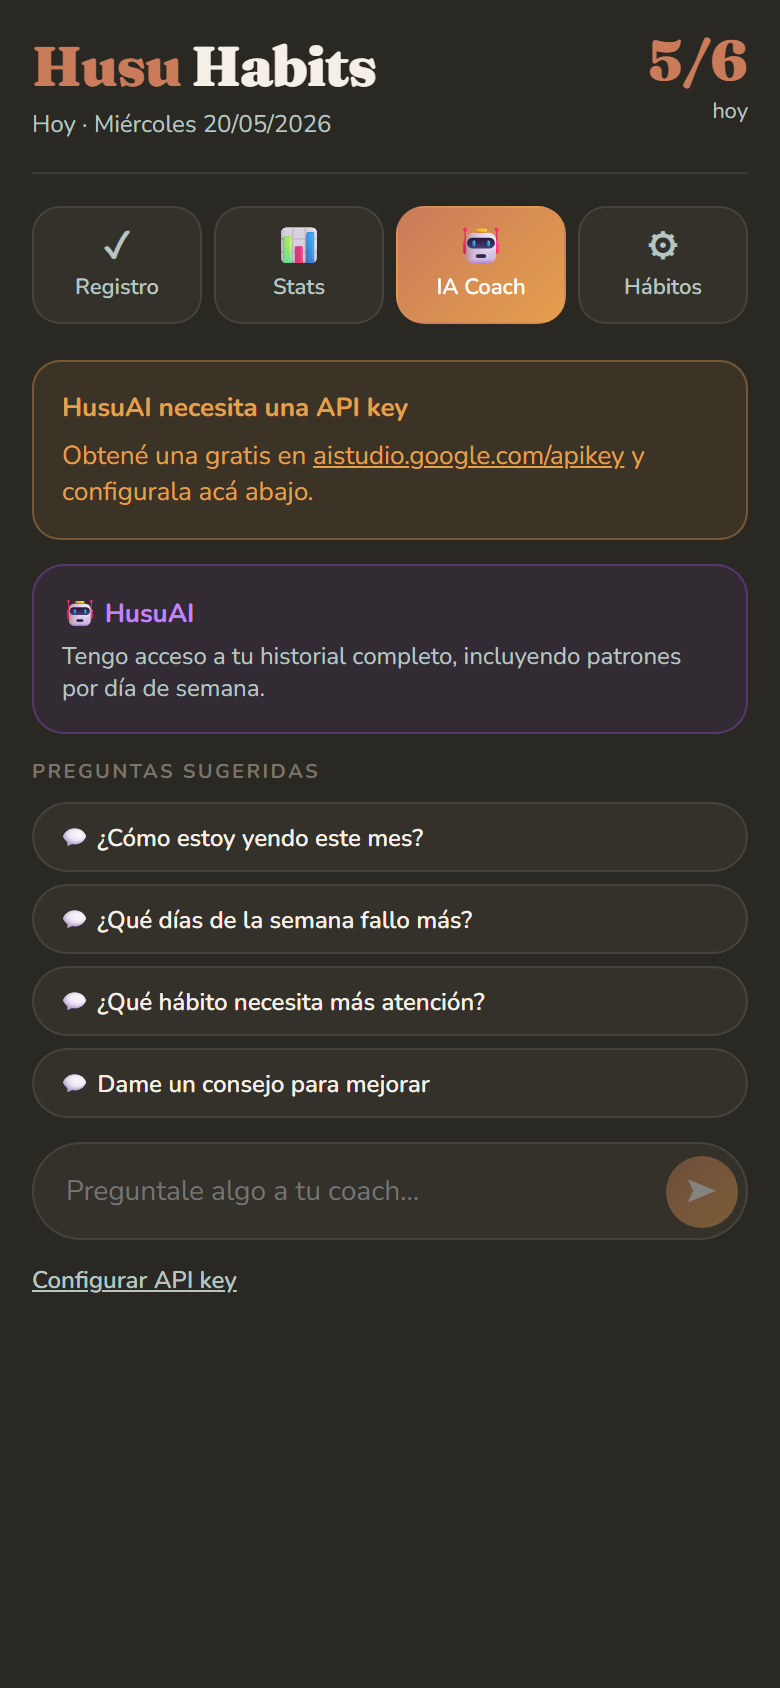
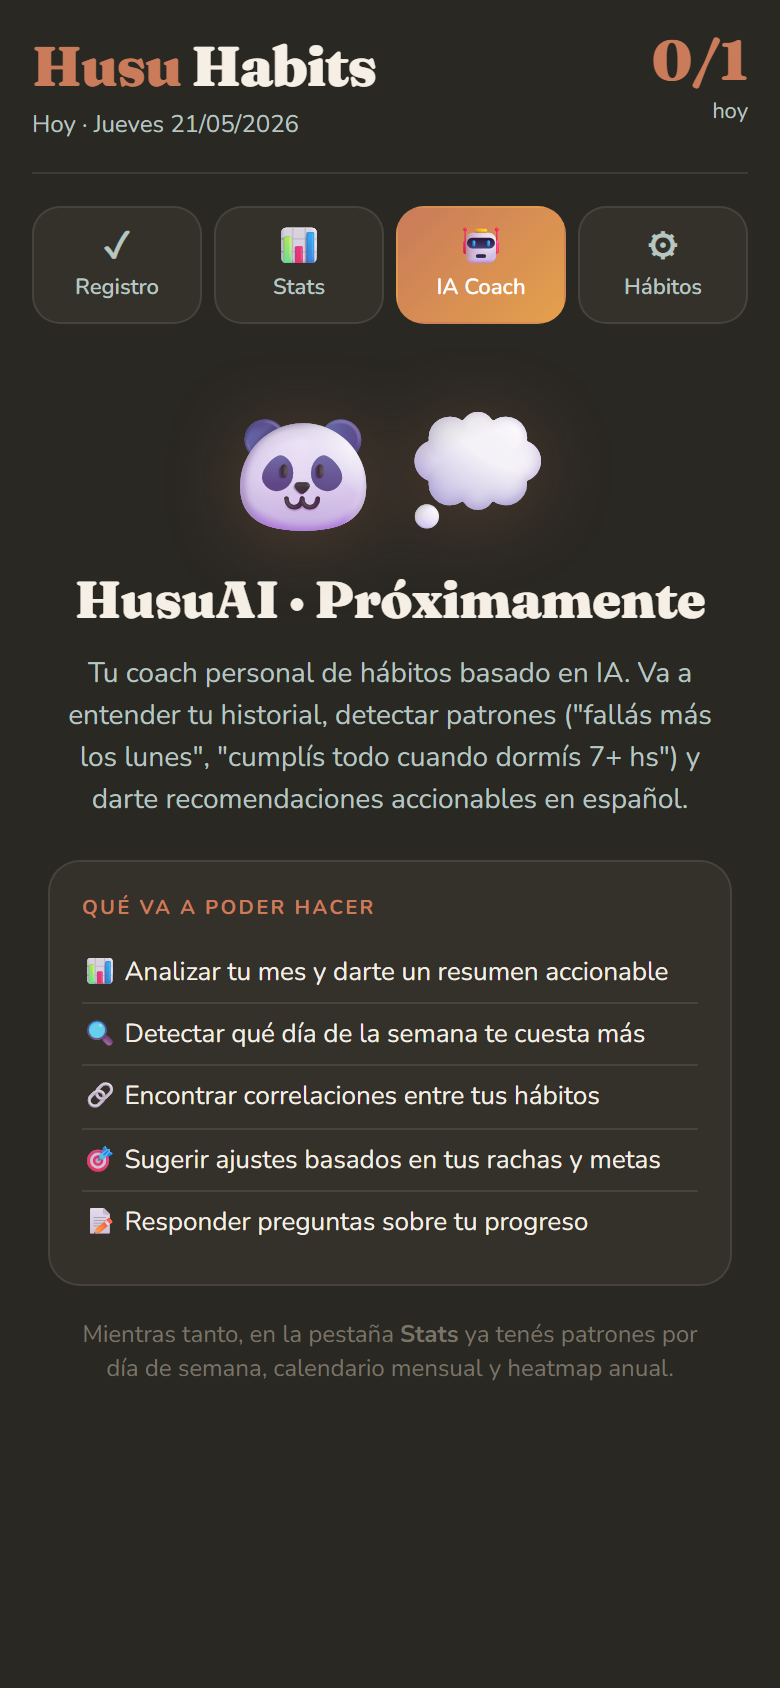
Block IA Coach with Coming Soon screen
Removes friction of "bring your own Gemini API key" for launch.
The full chat code remains intact in src/lib/gemini.ts and
src/lib/patterns.ts — only the UI is hidden behind a placeholder.
To reactivate later: revert IACoach.tsx to the chat component.

Coming soon screen shows:
- Husu mascot thinking (🐼💭)
- Title in Fraunces serif
- What it will do (5 features list)
- Footnote redirecting users to Stats tab for current insights

diff --git a/src/components/IACoach.tsx b/src/components/IACoach.tsx
@@ -1,152 +1,41 @@
-import { useEffect, useRef, useState } from 'react';
+// IA Coach está temporalmente bloqueado / "Próximamente".
+// El código completo del chat con Gemini sigue vivo en:
+//   - src/lib/gemini.ts (askGemini, buildSystemContext con guardrails médicos)
+//   - src/lib/patterns.ts (detección de patrones para inyectar al LLM)
+// Cuando lo reactivemos, restaurar el componente anterior y volver a wire-up onSetKey en App.tsx.
+
 import type { AppData } from '../lib/types';
-import { askGemini, buildSystemContext } from '../lib/gemini';
 
 interface Props {
   data: AppData;
   onSetKey: (key: string) => void;
 }
 
-interface Message {
-  role: 'user' | 'bot' | 'error';
-  text: string;
-}
-
-const SUGGESTIONS = [
-  '¿Cómo estoy yendo este mes?',
-  '¿Qué días de la semana fallo más?',
-  '¿Qué hábito necesita más atención?',
-  'Dame un consejo para mejorar',
-];
-
-export function IACoach({ data, onSetKey }: Props) {
-  const [messages, setMessages] = useState<Message[]>([]);
-  const [input, setInput] = useState('');
-  const [loading, setLoading] = useState(false);
-  const [showConfig, setShowConfig] = useState(false);
-  const scrollRef = useRef<HTMLDivElement>(null);
-
-  useEffect(() => {
-    scrollRef.current?.scrollIntoView({ behavior: 'smooth' });
-  }, [messages, loading]);
-
-  async function send(text: string) {
-    if (!text.trim() || loading) return;
-    if (!data.geminiKey) { setShowConfig(true); return; }
-
-    const newMessages: Message[] = [...messages, { role: 'user', text }];
-    setMessages(newMessages);
-    setInput('');
-    setLoading(true);
-
-    try {
-      const system = buildSystemContext(data);
-      const history = [
-        { role: 'user' as const, parts: [{ text: system }] },
-        { role: 'model' as const, parts: [{ text: 'Entendido, soy HusuAI. ¿En qué te ayudo?' }] },
-        ...newMessages.filter(m => m.role !== 'error').map(m => ({
-          role: (m.role === 'user' ? 'user' : 'model') as 'user' | 'model',
-          parts: [{ text: m.text }],
-        })),
-      ];
-      const reply = await askGemini(data.geminiKey, history);
-      setMessages([...newMessages, { role: 'bot', text: reply }]);
-    } catch (e) {
-      const msg = e instanceof Error ? e.message : 'Error desconocido';
-      setMessages([...newMessages, { role: 'error', text: `No pude procesar la respuesta: ${msg}` }]);
-    } finally {
-      setLoading(false);
-    }
-  }
-
+export function IACoach(_: Props) {
   return (
-    <>
-      {!data.geminiKey && (
-        <div className="api-banner">
-          <strong>HusuAI necesita una API key</strong>
-          <p style={{ margin: '6px 0 0' }}>
-            Obtené una gratis en{' '}
-            <a href="https://aistudio.google.com/apikey" target="_blank" rel="noreferrer">aistudio.google.com/apikey</a>
-            {' '}y configurala acá abajo.
-          </p>
-        </div>
-      )}
+    <div className="coming-soon">
+      <div className="coming-soon-hero">🐼💭</div>
+      <h2 className="coming-soon-title">HusuAI · Próximamente</h2>
+      <p className="coming-soon-sub">
+        Tu coach personal de hábitos basado en IA. Va a entender tu historial, detectar patrones
+        ("fallás más los lunes", "cumplís todo cuando dormís 7+ hs") y darte recomendaciones
+        accionables en español.
+      </p>
 
-      <div className="card" style={{ background: 'rgba(168, 85, 247, 0.08)', borderColor: 'rgba(168, 85, 247, 0.3)' }}>
-        <div style={{ color: '#c084fc', fontWeight: 700, fontSize: 13 }}>🤖 HusuAI</div>
-        <div style={{ fontSize: 12, color: 'var(--text-dim)', marginTop: 4 }}>
-          Tengo acceso a tu historial completo, incluyendo patrones por día de semana.
-        </div>
+      <div className="coming-soon-card">
+        <div className="coming-soon-eyebrow">Qué va a poder hacer</div>
+        <ul className="coming-soon-list">
+          <li>📊 Analizar tu mes y darte un resumen accionable</li>
+          <li>🔍 Detectar qué día de la semana te cuesta más</li>
+          <li>🔗 Encontrar correlaciones entre tus hábitos</li>
+          <li>🎯 Sugerir ajustes basados en tus rachas y metas</li>
+          <li>📝 Responder preguntas sobre tu progreso</li>
+        </ul>
       </div>
 
-      {messages.length === 0 && (
-        <>
-          <div className="section-label">Preguntas sugeridas</div>
-          {SUGGESTIONS.map(s => (
-            <button key={s} className="chip" onClick={() => send(s)}>💬 {s}</button>
-          ))}
-        </>
-      )}
-
-      {messages.map((m, i) => (
-        <div key={i} className={`chat-bubble ${m.role}`}>{m.text}</div>
-      ))}
-      {loading && <div className="chat-bubble bot">Pensando…</div>}
-      <div ref={scrollRef} />
-
-      <div className="chat-input">
-        <input
-          value={input}
-          onChange={e => setInput(e.target.value)}
-          onKeyDown={e => { if (e.key === 'Enter') send(input); }}
-          placeholder="Preguntale algo a tu coach..."
-        />
-        <button className="send-btn" onClick={() => send(input)} disabled={loading || !input.trim()}>➤</button>
-      </div>
-
-      <button className="config-link" onClick={() => setShowConfig(true)}>
-        {data.geminiKey ? 'Cambiar API key' : 'Configurar API key'}
-      </button>
-
-      {messages.length > 0 && (
-        <button className="config-link" onClick={() => setMessages([])}>Nueva conversación</button>
-      )}
-
-      {showConfig && (
-        <ApiKeyModal
-          current={data.geminiKey ?? ''}
-          onCancel={() => setShowConfig(false)}
-          onSave={k => { onSetKey(k); setShowConfig(false); }}
-        />
-      )}
-    </>
-  );
-}
-
-function ApiKeyModal({ current, onCancel, onSave }: {
-  current: string;
-  onCancel: () => void;
-  onSave: (key: string) => void;
-}) {
-  const [val, setVal] = useState(current);
-  return (
-    <div className="modal-backdrop" onClick={onCancel}>
-      <div className="modal" onClick={e => e.stopPropagation()}>
-        <h2>API key de Gemini</h2>
-        <p style={{ fontSize: 12, color: 'var(--text-dim)', margin: '0 0 12px' }}>
-          Tu clave se guarda solo en este dispositivo. Conseguila gratis en{' '}
-          <a href="https://aistudio.google.com/apikey" target="_blank" rel="noreferrer" style={{ color: '#ffa94d' }}>
-            aistudio.google.com/apikey
-          </a>.
-        </p>
-        <div className="modal-row">
-          <label>Clave</label>
-          <input value={val} onChange={e => setVal(e.target.value)} placeholder="AIza..." autoFocus />
-        </div>
-        <div className="modal-actions">
-          <button className="btn btn-secondary" onClick={onCancel}>Cancelar</button>
-          <button className="btn btn-primary" onClick={() => onSave(val.trim())}>Guardar</button>
-        </div>
+      <div className="coming-soon-footnote">
+        Mientras tanto, en la pestaña <strong>Stats</strong> ya tenés patrones por día de semana,
+        calendario mensual y heatmap anual.
       </div>
     </div>
   );

diff --git a/src/styles.css b/src/styles.css
@@ -686,6 +686,61 @@ h1, h2, h3, .display {
 }
 .streak-label { font-size: 10px; color: var(--text-dim); margin-top: 2px; text-transform: uppercase; letter-spacing: 0.5px; font-weight: 600; }
 
+/* Coming Soon (IA Coach bloqueado) */
+.coming-soon {
+  text-align: center;
+  padding: 24px 8px;
+}
+.coming-soon-hero {
+  font-size: 64px;
+  line-height: 1;
+  margin-bottom: 16px;
+  filter: drop-shadow(0 4px 18px rgba(201, 123, 90, 0.25));
+}
+.coming-soon-title {
+  font-family: 'Fraunces', Georgia, serif;
+  font-size: 26px; font-weight: 800;
+  color: var(--text);
+  margin: 0 0 10px;
+  letter-spacing: -0.01em;
+}
+.coming-soon-sub {
+  font-size: 14px; color: var(--text-dim);
+  line-height: 1.5; margin: 0 0 20px;
+  max-width: 340px;
+  margin-left: auto; margin-right: auto;
+}
+.coming-soon-card {
+  background: var(--bg-card);
+  border: 1px solid var(--border);
+  border-radius: 16px;
+  padding: 16px;
+  text-align: left;
+  max-width: 360px;
+  margin: 0 auto 16px;
+}
+.coming-soon-eyebrow {
+  font-size: 10px; letter-spacing: 1.2px;
+  text-transform: uppercase; font-weight: 700;
+  color: var(--clay);
+  margin-bottom: 10px;
+}
+.coming-soon-list {
+  list-style: none; padding: 0; margin: 0;
+}
+.coming-soon-list li {
+  font-size: 13px; color: var(--text);
+  padding: 6px 0;
+  border-bottom: 1px solid var(--border);
+  line-height: 1.4;
+}
+.coming-soon-list li:last-child { border-bottom: 0; }
+.coming-soon-footnote {
+  font-size: 12px; color: var(--text-faint);
+  max-width: 320px; margin: 0 auto;
+  line-height: 1.45;
+}
+
 /* Sunday Recap */
 .recap-card {
   background: linear-gradient(135deg, var(--clay-soft), rgba(229, 160, 76, 0.10));